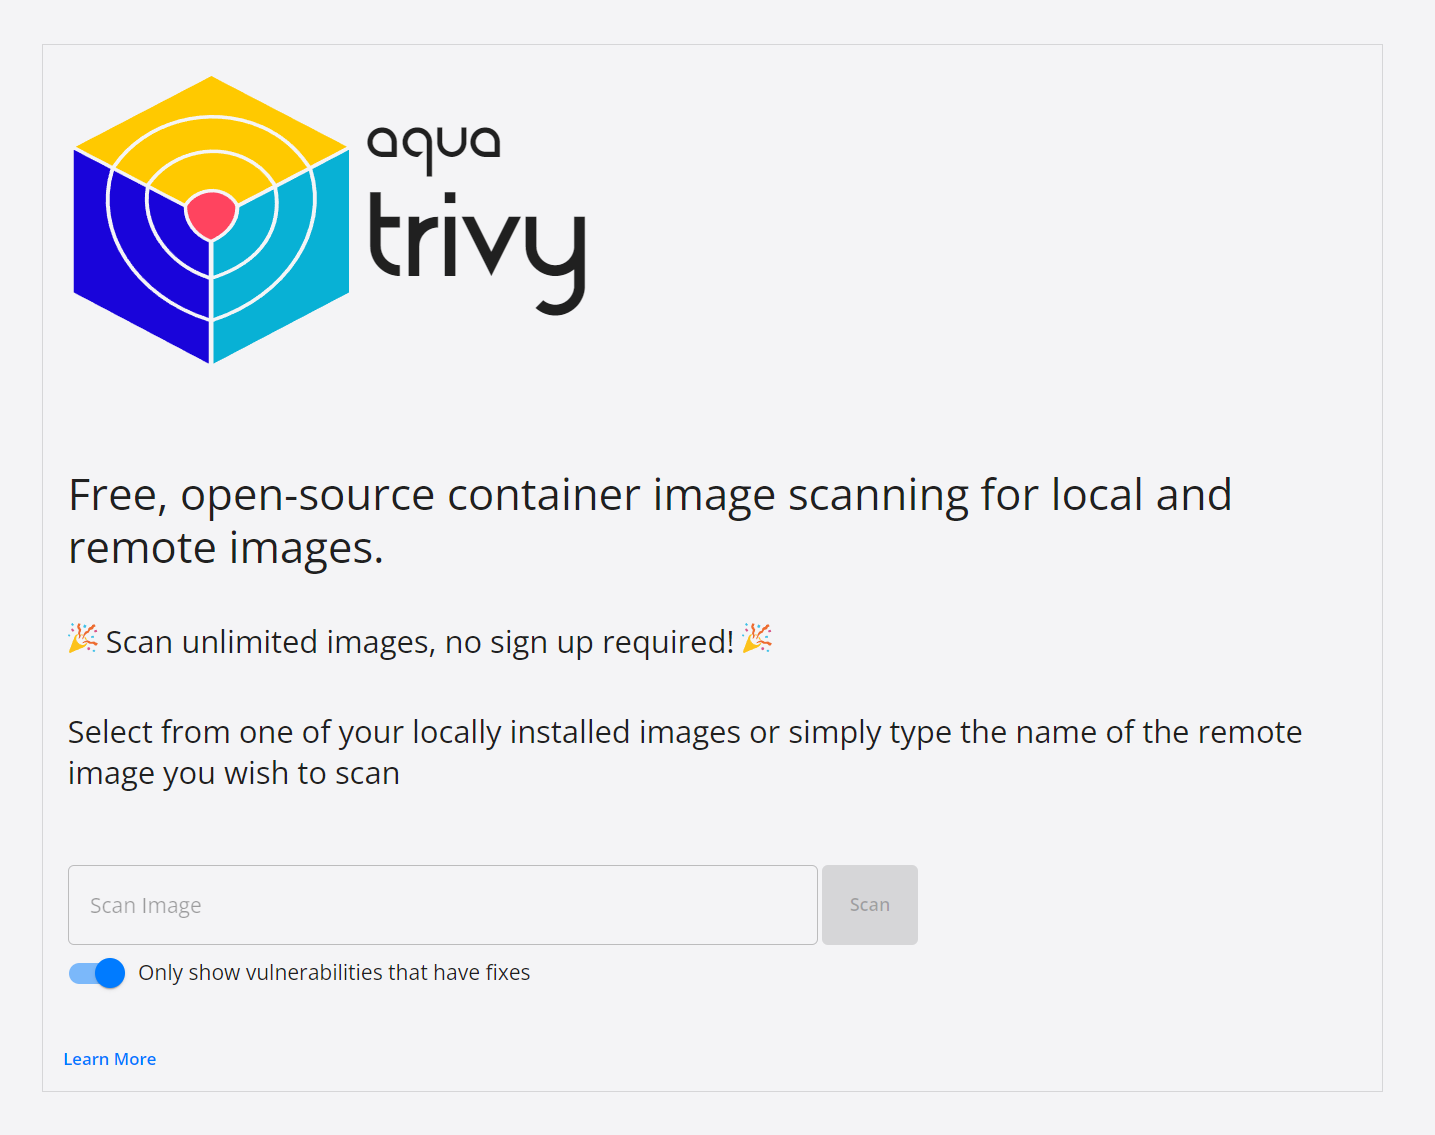
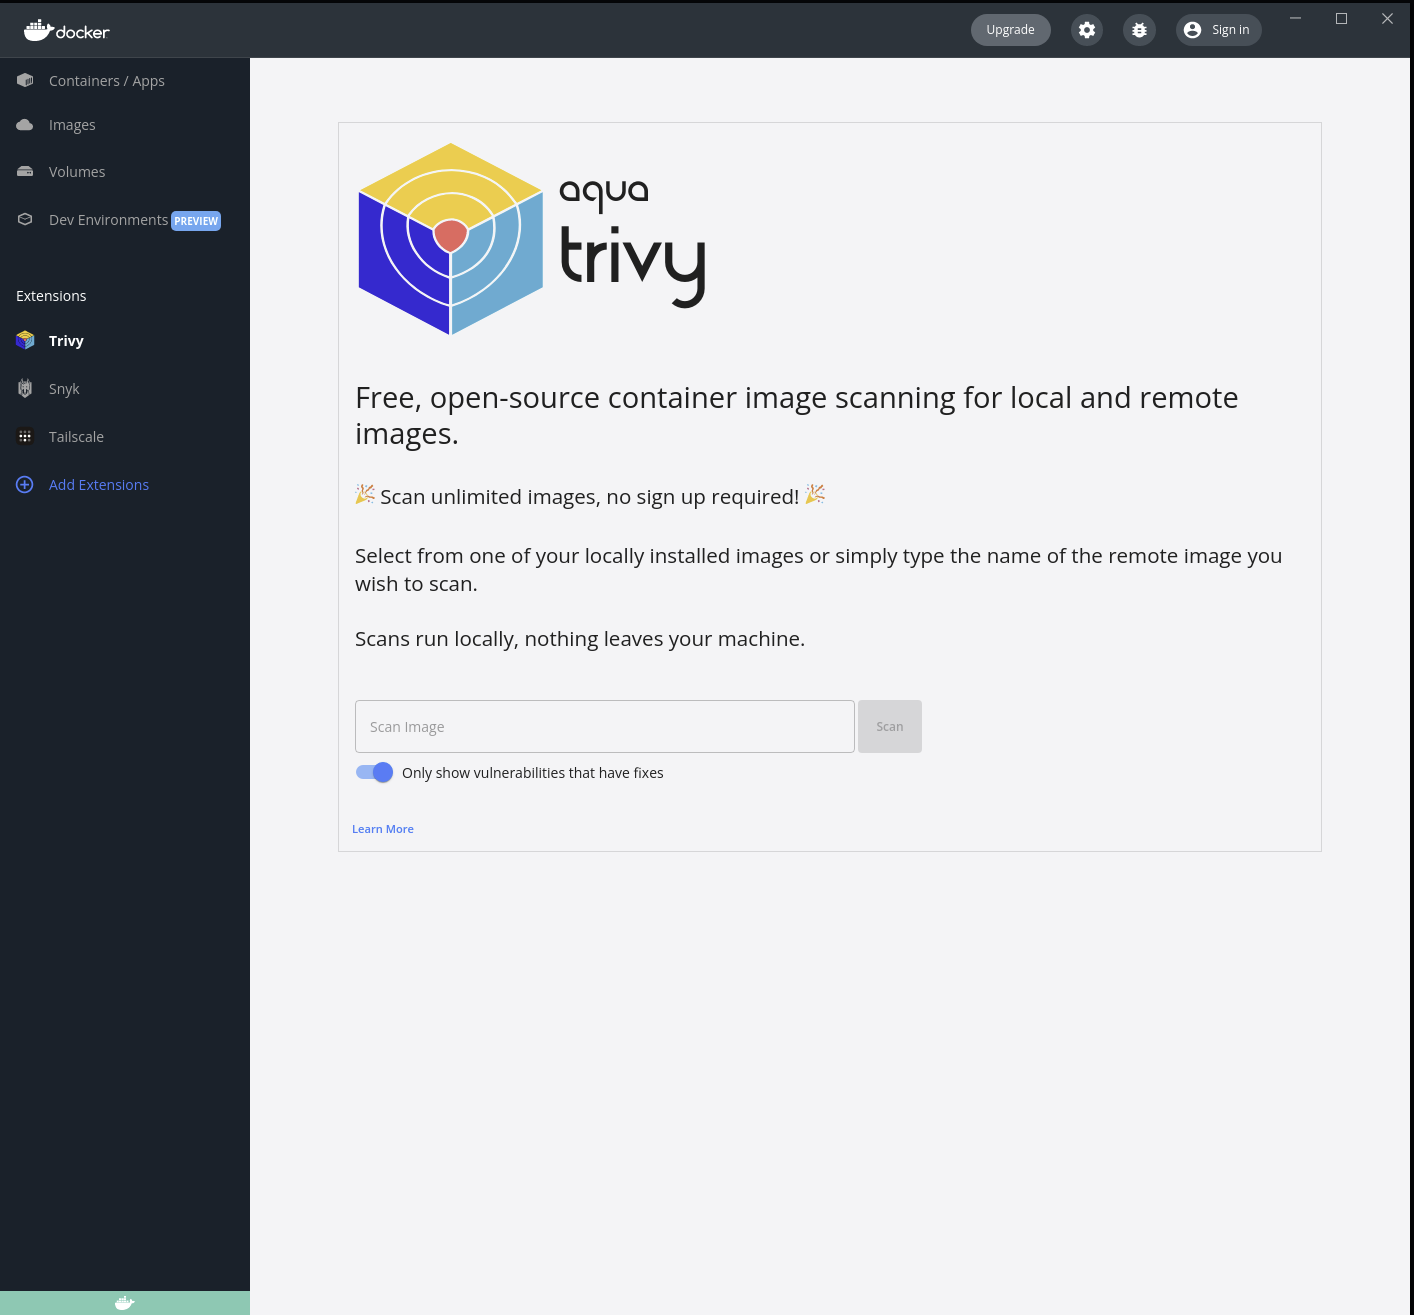
feat: restructure code and make welcome page more tiny screen friendly

Changed region(s): [[0.0, 0.0, 1.0, 1.0], [0.5601, 0.7401, 0.6535, 0.8326], [0.5912, 0.5242, 0.6535, 0.5859]]

diff --git a/client/src/Welcome.tsx b/client/src/Welcome.tsx
@@ -4,19 +4,17 @@ import { ImageList } from './ImageList';
 
 
 export function Welcome(props: any) {
-
-
     const goToTrivy = () => {
         window.ddClient.host.openExternal("https://trivy.dev")
     }
 
     return (
-        <Box sx={{ minWidth: 275, m: '8rem', display: props.displayWelcome }}>
+        <Box sx={{ minWidth: 275, m: '4rem', display: props.showWelcome }}>
             <Card raised variant="outlined">
                 <CardContent>
                     <Box sx={{ display: 'flex' }}>
                         <img src="images/trivy_logo.svg" alt="Trivy Logo" height="200px" />
-                        <Box sx={{ marginLeft: '0.5rem', marginTop: '1.7rem' }}>
+                        <Box sx={{ marginLeft: '0.8rem', marginTop: '1.8rem' }}>
                             <Typography variant="h3" fontFamily='Droplet'>
                                 aqua
                             </Typography>
@@ -25,17 +23,16 @@ export function Welcome(props: any) {
                             </Typography>
                         </Box>
                     </Box>
-
-                    <Typography variant="h4" component="div" gutterBottom sx={{ marginTop: '4rem' }}>
+                    <Typography variant="h4" component="div" gutterBottom sx={{ marginTop: '2.5rem' }}>
                         Free, open-source container image scanning for local and remote images.
                     </Typography>
-
                     <Typography variant="h5" sx={{ marginTop: '2rem' }}>
                         <img src="images/tada.svg" alt="Tada Logo" height="20px" /> Scan unlimited images, no sign up required! <img src="images/tada.svg" alt="Tada Logo" height="20px" />
                     </Typography>
-
                     <Typography variant="h5" sx={{ marginTop: '2rem' }}>
-                        Select from one of your locally installed images or simply type the name of the remote image you wish to scan. <br />
+                        Select from one of your locally installed images or simply type the name of the remote image you wish to scan.
+                        <br />
+                        <br />
                         Scans run locally, nothing leaves your machine.
                     </Typography>
                     <Box sx={{ marginTop: '3rem' }}>

diff --git a/client/src/ImageList.tsx b/client/src/ImageList.tsx
@@ -1,19 +1,19 @@
-import React from 'react';
-import Button from "@mui/material/Button";
-import Autocomplete from "@mui/material/Autocomplete";
-import TextField from "@mui/material/TextField";
-import FormGroup from "@mui/material/FormGroup";
-import FormControlLabel from "@mui/material/FormControlLabel";
-import Switch from "@mui/material/Switch";
+import Autocomplete from '@mui/material/Autocomplete';
+import Button from '@mui/material/Button';
+import FormControlLabel from '@mui/material/FormControlLabel';
+import FormGroup from '@mui/material/FormGroup';
+import Switch from '@mui/material/Switch';
+import TextField from '@mui/material/TextField';
 import { Box } from '@mui/system';
+import React from 'react';
 
 export function ImageList(props: any) {
     const [open, setOpen] = React.useState(false);
-
     const [disableScan, setDisableScan] = React.useState(true);
     const [fixedOnly, setFixedOnly] = React.useState(true);
     const [images, setImages] = React.useState<string[]>([]);
     const loading = open && images !== undefined && images.length === 0;
+    const ignoredImages = ["aquasec/trivy", "trivy-docker-extension"];
 
     React.useEffect(() => {
         let active = true;
@@ -40,9 +40,7 @@ export function ImageList(props: any) {
         }
     }, [open]);
 
-    const ignoredImages = ["aquasec/trivy", "trivy-docker-extension"];
-
-    function loadImages() {
+    const loadImages = () => {
         let images = [];
         try {
             images = window.ddClient.docker.listImages();
@@ -71,14 +69,14 @@ export function ImageList(props: any) {
         })
     }
 
-    function runScan() {
+    const runScan = () => {
         // disable the scan button as a priority
         setDisableScan(true);
         // run the scan 
         props.runScan(fixedOnly);
     }
 
-    function toggleFixedOnly() {
+    const toggleFixedOnly = () => {
         setFixedOnly(!fixedOnly);
     }
 
@@ -100,8 +98,6 @@ export function ImageList(props: any) {
             setDisableScan(false);
         }
     }
-
-
 
     return (
         <Box>

diff --git a/client/src/App.tsx b/client/src/App.tsx
@@ -78,7 +78,6 @@ export function App() {
 
   async function triggerTrivy(fixedOnly: boolean) {
     resetCounters();
-
     if (!(await checkForCacheVolume())) {
       await createCacheVolume().then((created) => {
         if (!created) {
@@ -110,8 +109,6 @@ export function App() {
       commandParts.push("--ignore-unfixed");
     }
     commandParts.push(scanImage);
-    console.log(commandParts);
-
     ({ stdout, stderr } = await runTrivy(commandParts, stdout, stderr));
   }
 
@@ -132,7 +129,6 @@ export function App() {
             );
             console.error(error);
           },
-
           onClose(exitCode: number) {
             setLoadingWait(false);
             if (exitCode === 0) {
@@ -152,7 +148,6 @@ export function App() {
     );
     return { stdout, stderr };
   }
-
 
   const processResult = (res: any) => {
     let all = 0;
@@ -218,8 +213,6 @@ export function App() {
         : -1;
     });
 
-
-
     if (all === 0) {
       console.debug("No results, showing the success screen");
       setShowSuccess("block");
@@ -227,12 +220,8 @@ export function App() {
     } else {
       setShowFilter("block");
     }
-
     setAllVulnerabilities(vulns);
     setVulnerabilities(vulns);
-    if (vulnerabilities.length === 0) {
-      //noErrors = true;
-    }
   }
 
   const runScan = (fixedOnly: boolean) => {
@@ -276,7 +265,7 @@ export function App() {
         <CssBaseline />
         {/* Entry point to the extension - large hero with description and scan box */}
         <Welcome
-          displayWelcome={showWelcome}
+          showWelcome={showWelcome}
           scanImage={scanImage}
           setScanImage={setScanImage}
           runScan={runScan}

diff --git a/client/src/Vulns.tsx b/client/src/Vulns.tsx
@@ -40,7 +40,10 @@ export function Vulns(props: any) {
 
                 {v.map((row: { id: boolean | ReactChild | ReactFragment | ReactPortal | null | undefined; title: boolean | ReactChild | ReactFragment | ReactPortal | null | undefined; description: boolean | ReactChild | ReactFragment | ReactPortal | null | undefined; pkgName: boolean | ReactChild | ReactFragment | ReactPortal | null | undefined; installedVersion: boolean | ReactChild | ReactFragment | ReactPortal | null | undefined; fixedVersion: boolean | ReactChild | ReactFragment | ReactPortal | null | undefined; primaryURL: boolean | ReactChild | ReactFragment | ReactPortal | null | undefined; }) => (
                     <Accordion>
-                        <AccordionSummary sx={{ overflowX: 'hidden' }} expandIcon={<ExpandMoreIcon />}>
+                        <AccordionSummary
+                            sx={{ overflowX: 'hidden' }}
+                            expandIcon={<ExpandMoreIcon />}
+                        >
                             <Pill item={row} />
 
                             <Typography sx={{ width: '16%', minWidth: '120px', flexShrink: 0, m: '0.35rem' }}>

diff --git a/client/src/DefaultDisplay.tsx b/client/src/DefaultDisplay.tsx
@@ -1,13 +1,14 @@
-import { Typography } from "@mui/material";
-import { Box } from "@mui/system";
-import { Links } from "./Links";
-import { ImageList } from "./ImageList";
+import { Typography } from '@mui/material';
+import { Box } from '@mui/system';
+
+import { ImageList } from './ImageList';
+import { Links } from './Links';
 
 
 export function DefaultDisplay(props: any) {
 
     return (
-        <Box sx={{ display: props.displayStandard, marginTop: '2rem' }}>
+        <Box sx={{ display: props.showDefaultDisplay, marginTop: '2rem' }}>
             <Box sx={{ m: '2rem' }}>
                 <Links />
                 <Box sx={{ display: 'flex' }}>

diff --git a/client/src/Success.tsx b/client/src/Success.tsx
@@ -5,7 +5,7 @@ import { Box } from "@mui/system";
 
 export function Success(props: any) {
     return (
-        <Box sx={{ minWidth: 275, m: '10rem', p: '2rem', marginTop: '5rem', textAlign: 'center', display: props.showSuccess }}>
+        <Box sx={{ minWidth: 275, m: '4rem', p: '2rem', textAlign: 'center', display: props.showSuccess }}>
             <Card>
                 <CardContent>
 

diff --git a/client/src/index.tsx b/client/src/index.tsx
@@ -1,5 +1,6 @@
 import React from 'react';
 import ReactDOM from 'react-dom';
+
 import { App } from './App';
 
 

diff --git a/README.md b/README.md
@@ -17,6 +17,8 @@ When you run the scan you'll get the results
 
 ![Screenshot Results](.github/images/screenshot_results.png)
 
+![Screenshot Results - Light Theme](.github/images/screenshot_results_light.png)
+
 ## What is is made of?
 
 The extension runs in its own container with a web interface that calls into the Docker extension API. At a high level the flow is;
